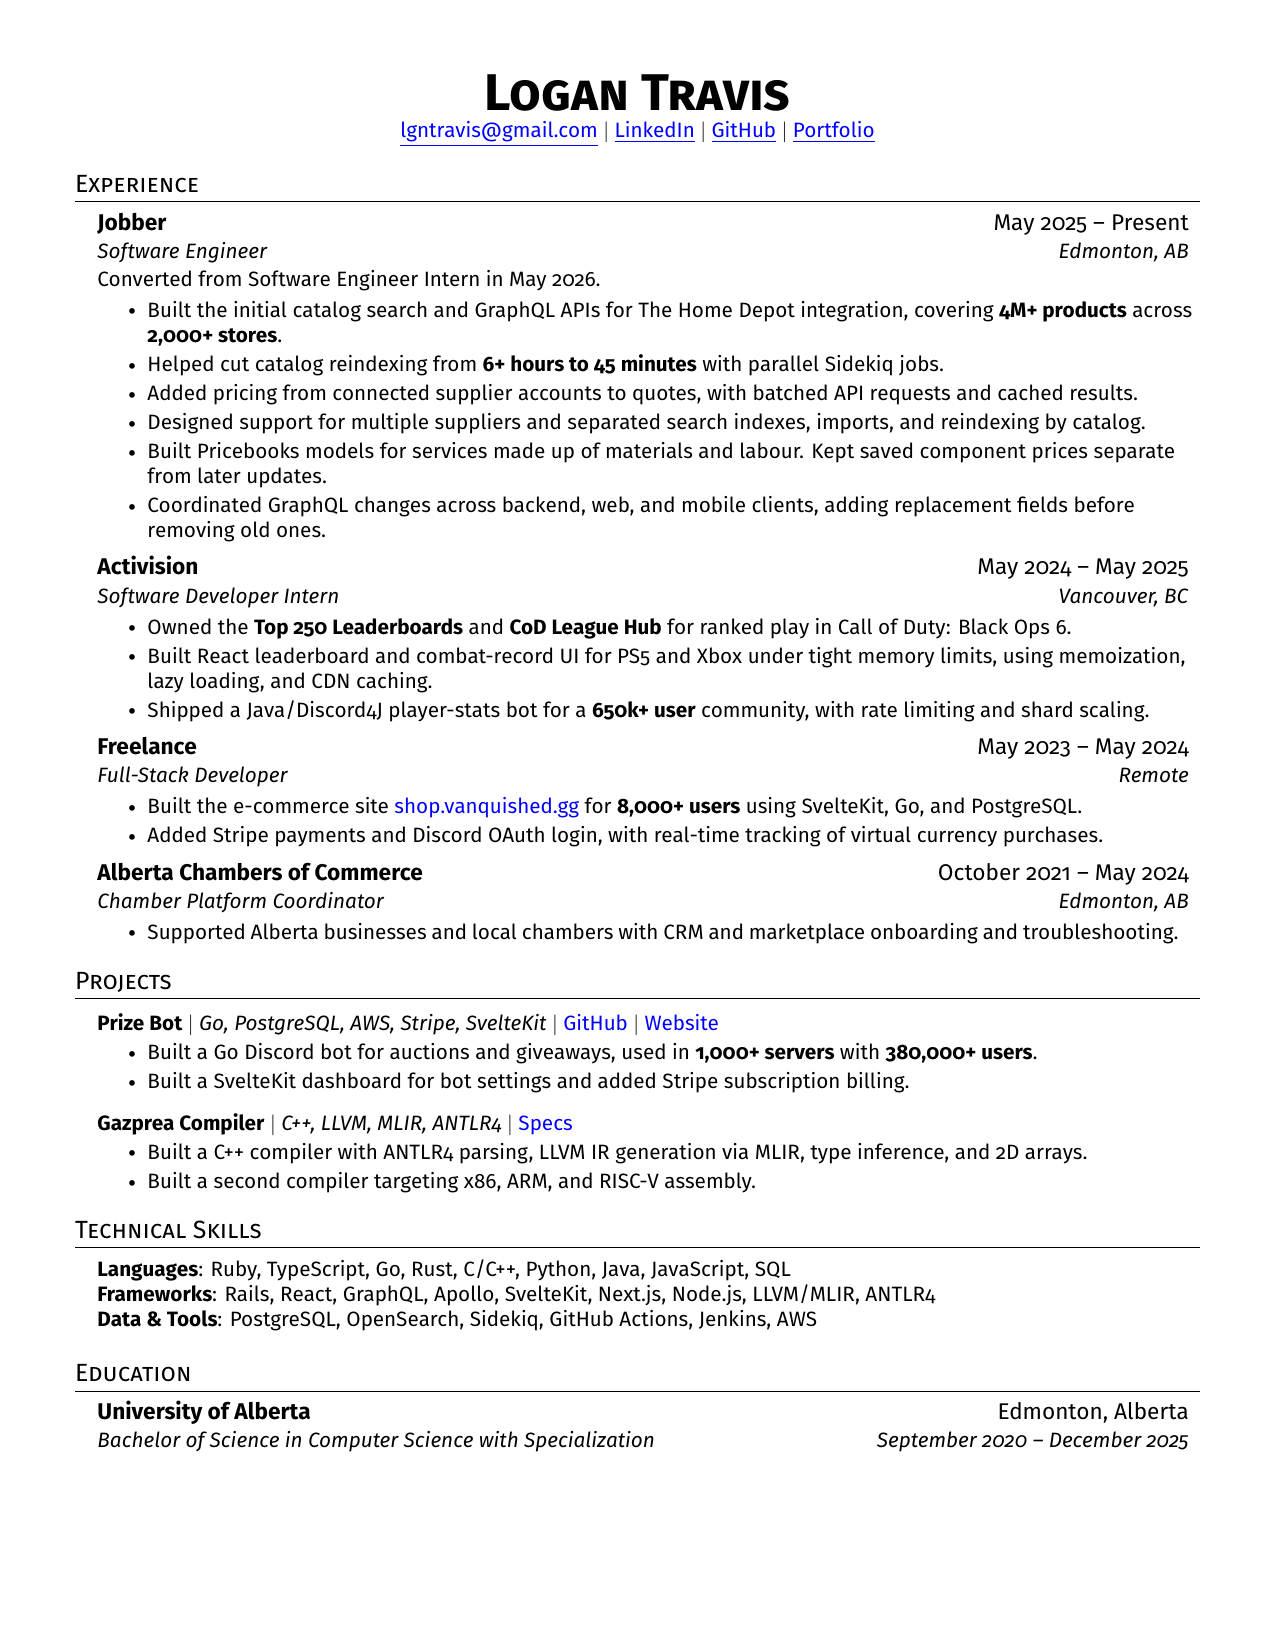
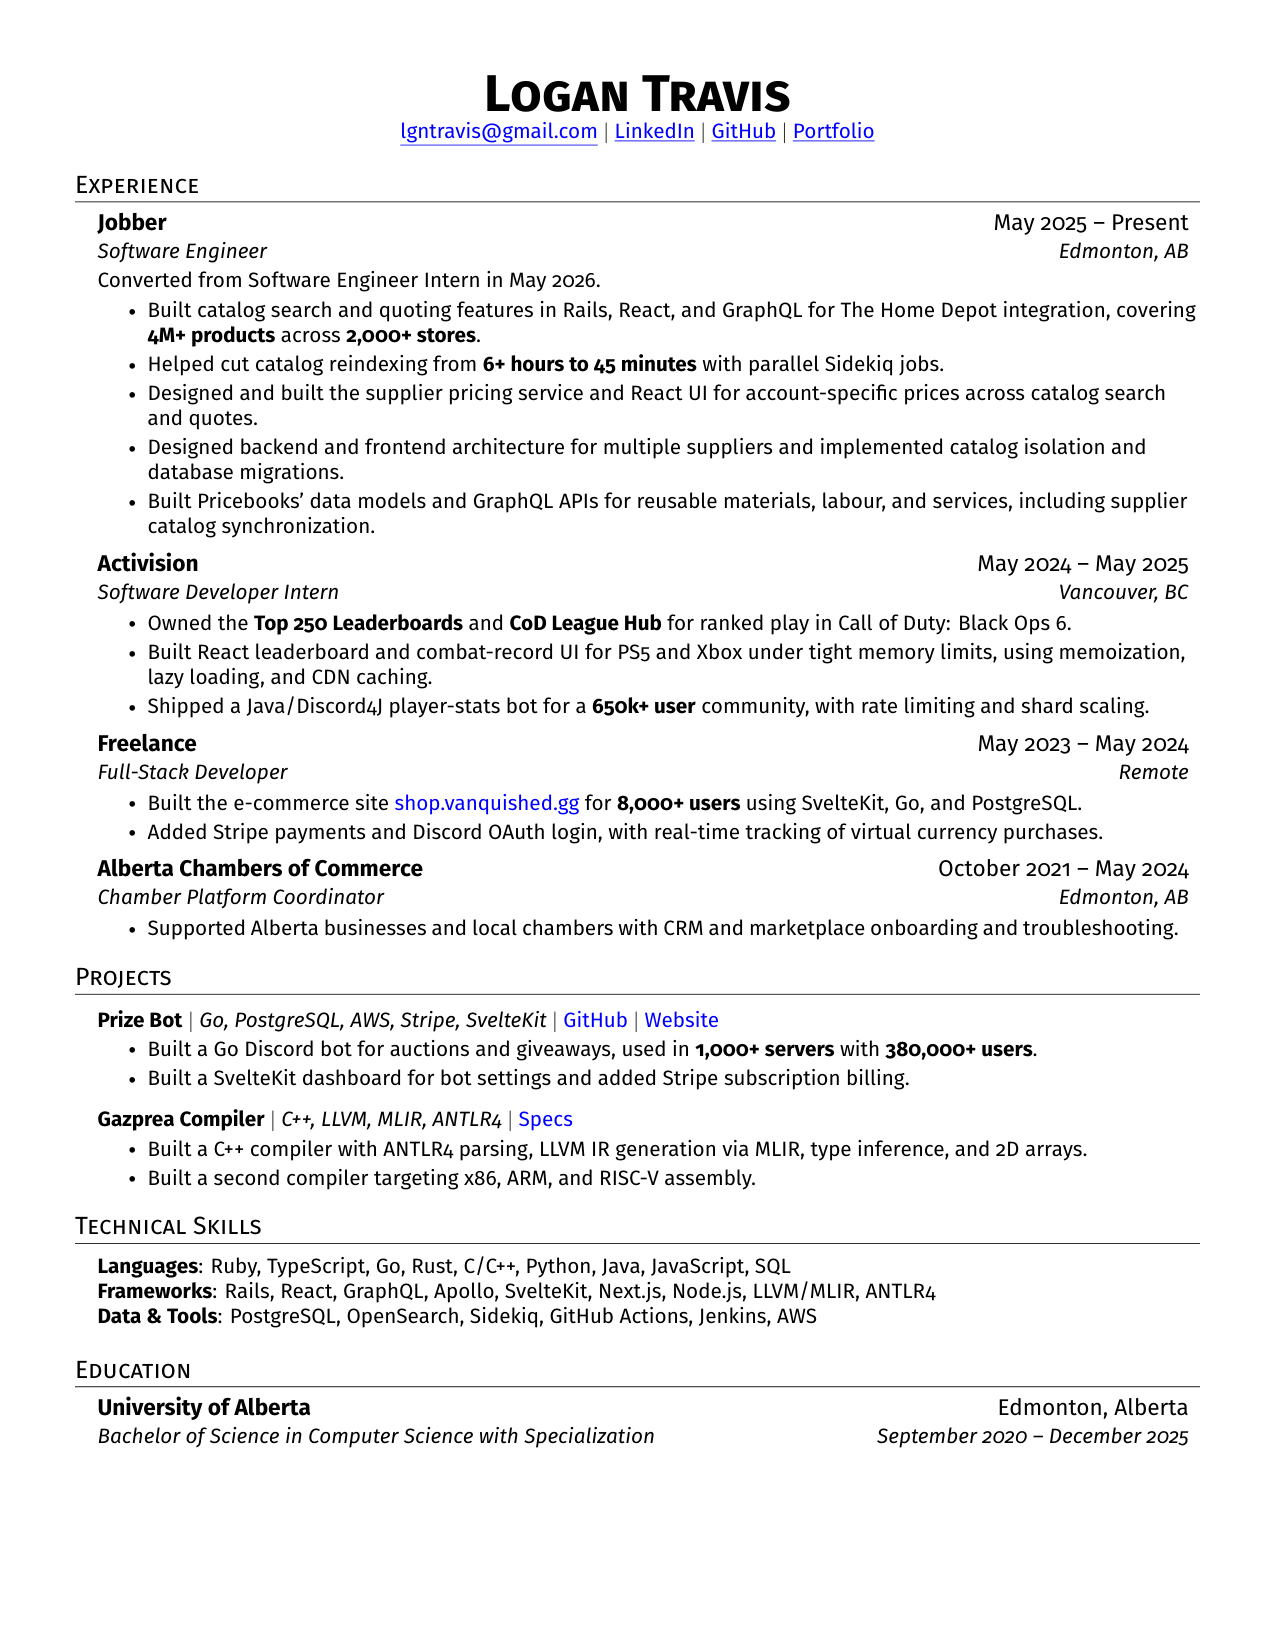
Focus resume bullets on features and architectural work

Changed region(s): [[0.0612, 0.0927, 0.9482, 0.8964], [0.3059, 0.0309, 0.6729, 0.0927], [0.6729, 0.8345, 0.9482, 0.8964]]

diff --git a/2-page/resume.tex b/2-page/resume.tex
@@ -151,13 +151,11 @@
 {Software Engineer}{Edmonton, AB}
 {Converted from Software Engineer Intern in May 2026.}
 \resumeItemListStart
-\resumeItem{Built the initial catalog search and GraphQL APIs for The Home Depot integration, covering \textbf{4M+ products} across \textbf{2,000+ stores}. Added local store prices to quotes and templates.}
+\resumeItem{Built catalog search and quoting features in Rails, React, and GraphQL for The Home Depot integration, covering \textbf{4M+ products} across \textbf{2,000+ stores}.}
 \resumeItem{Helped cut catalog reindexing from \textbf{6+ hours to 45 minutes} with parallel Sidekiq jobs.}
-\resumeItem{Added pricing from connected supplier accounts to catalog search and quotes. Batched and cached API requests to avoid repeat lookups, with fallback prices when requests failed.}
-\resumeItem{Designed support for multiple suppliers and separated search indexes, imports, and reindexing by catalog. Built tools to migrate catalog data and roll back search index changes.}
-\resumeItem{Built Pricebooks models for services made up of materials and labour. Kept saved component prices separate from later updates.}
-\resumeItem{Coordinated GraphQL changes across backend, web, and mobile clients, adding replacement fields before removing old ones.}
-\resumeItem{Allowed pages to render while a supplier pricing check ran. The check could take about five seconds.}
+\resumeItem{Designed and built the supplier pricing service and React UI so customers could use their account-specific supplier prices across catalog search and quotes.}
+\resumeItem{Designed Supply's backend and frontend architecture for multiple suppliers, covering catalogs, account connections, and pricing. Implemented catalog isolation and database migrations.}
+\resumeItem{Built Pricebooks' data models and GraphQL APIs for reusable materials, labour, and services, including supplier catalog synchronization.}
 \resumeItemListEnd
 
 \resumeSubheading
@@ -167,7 +165,6 @@
 \resumeItem{Owned the \textbf{Top 250 Leaderboards} and \textbf{CoD League Hub} for ranked play in Call of Duty: Black Ops 6.}
 \resumeItem{Built React leaderboard and combat-record UI for PS5 and Xbox under tight memory limits, using memoization, lazy loading, and CDN caching.}
 \resumeItem{Shipped a Java/Discord4J player-stats bot for a \textbf{650k+ user} community, with rate limiting and shard scaling.}
-\resumeItem{Refactored Modern Warfare 3 code and tested UI and localization changes with Jest unit and snapshot tests.}
 \resumeItemListEnd
 
 \resumeSubheading
@@ -176,7 +173,6 @@
 \resumeItemListStart
 \resumeItem{Built the e-commerce site \href{https://shop.vanquished.gg}{shop.vanquished.gg} for \textbf{8,000+ users} using SvelteKit, Go, and PostgreSQL.}
 \resumeItem{Added Stripe payments and Discord OAuth login, with real-time tracking of virtual currency purchases.}
-\resumeItem{Fixed memory leaks in clients' Python applications.}
 \resumeItemListEnd
 
 \resumeSubheading

diff --git a/resume.tex b/resume.tex
@@ -151,12 +151,11 @@
 {Software Engineer}{Edmonton, AB}
 {Converted from Software Engineer Intern in May 2026.}
 \resumeItemListStart
-\resumeItem{Built the initial catalog search and GraphQL APIs for The Home Depot integration, covering \textbf{4M+ products} across \textbf{2,000+ stores}.}
+\resumeItem{Built catalog search and quoting features in Rails, React, and GraphQL for The Home Depot integration, covering \textbf{4M+ products} across \textbf{2,000+ stores}.}
 \resumeItem{Helped cut catalog reindexing from \textbf{6+ hours to 45 minutes} with parallel Sidekiq jobs.}
-\resumeItem{Added pricing from connected supplier accounts to quotes, with batched API requests and cached results.}
-\resumeItem{Designed support for multiple suppliers and separated search indexes, imports, and reindexing by catalog.}
-\resumeItem{Built Pricebooks models for services made up of materials and labour. Kept saved component prices separate from later updates.}
-\resumeItem{Coordinated GraphQL changes across backend, web, and mobile clients, adding replacement fields before removing old ones.}
+\resumeItem{Designed and built the supplier pricing service and React UI for account-specific prices across catalog search and quotes.}
+\resumeItem{Designed backend and frontend architecture for multiple suppliers and implemented catalog isolation and database migrations.}
+\resumeItem{Built Pricebooks' data models and GraphQL APIs for reusable materials, labour, and services, including supplier catalog synchronization.}
 \resumeItemListEnd
 
 \resumeSubheading
